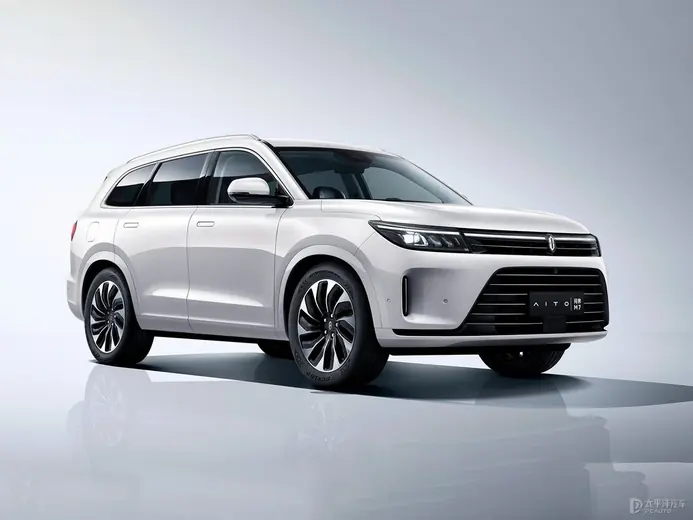
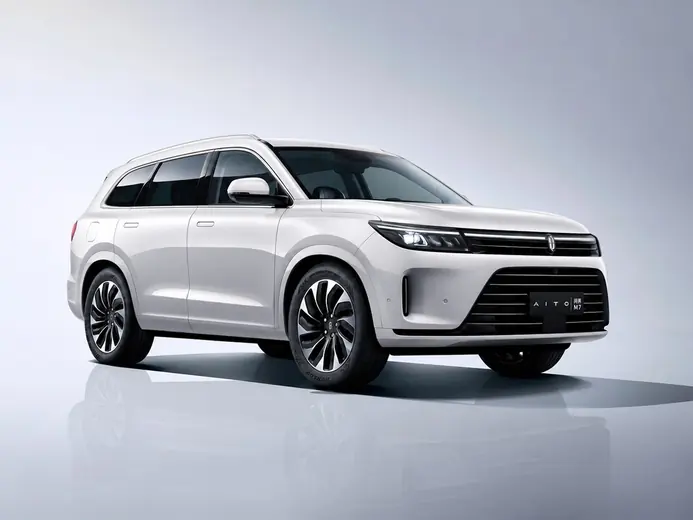
Clean corner overlays from vehicle photos and refresh previews

diff --git a/images/vehicle-image-edits.md b/images/vehicle-image-edits.md
@@ -1,0 +1,20 @@
+# Vehicle image cleanup
+
+The built-in ImageGen tool was used to remove bottom-right overlays from:
+
+- vehicles/xiaomi-su7.jpg: translucent PCAUTO media watermark.
+- vehicles/aito-m7.jpg: translucent PCAUTO media watermark.
+- vehicles/aion-y-plus.jpg: small white sales disclaimer, at the user’s request.
+
+Prompt for SU7 and M7: Remove only the small translucent media watermark at
+the extreme bottom right; reconstruct the studio floor/background; preserve
+the vehicle, details, framing, colors, and lighting. Do not crop or redesign.
+
+Prompt for AION Y Plus: Remove only the small white bottom-right Chinese text
+and reconstruct the pavement. Keep the yellow vehicle, architecture, sky,
+lighting, wide framing, and upper-left AION / AION Y Plus titles unchanged.
+
+Generated outputs are encoded as JPEG at the existing asset dimensions.
+Hover thumbnails are regenerated by scripts/generate_vehicle_previews.py.
+Original source URLs remain in vehicles.json; original files are also available
+in Git history. Local working backups are outside tracked website content.
